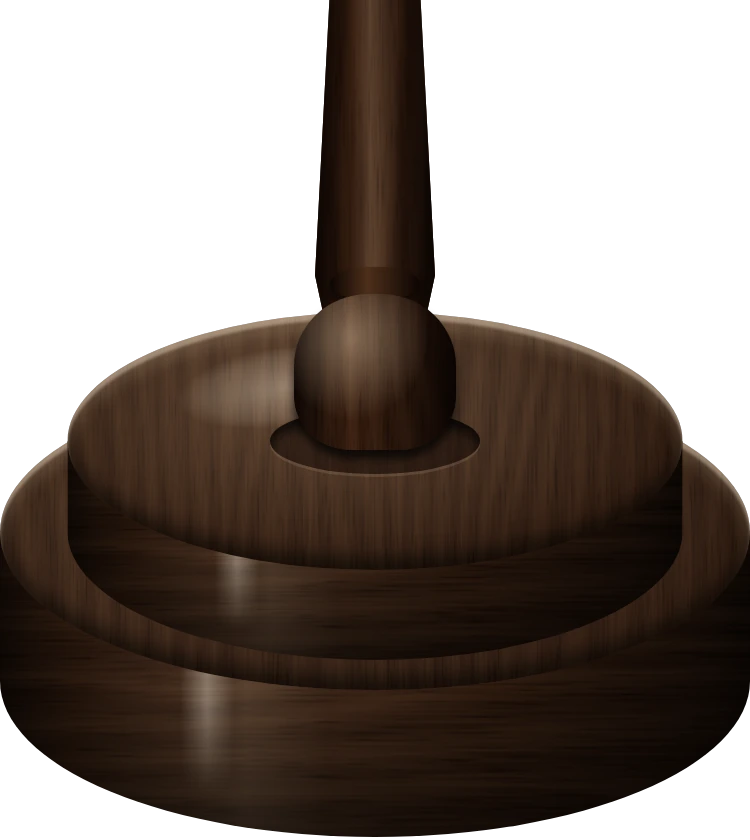
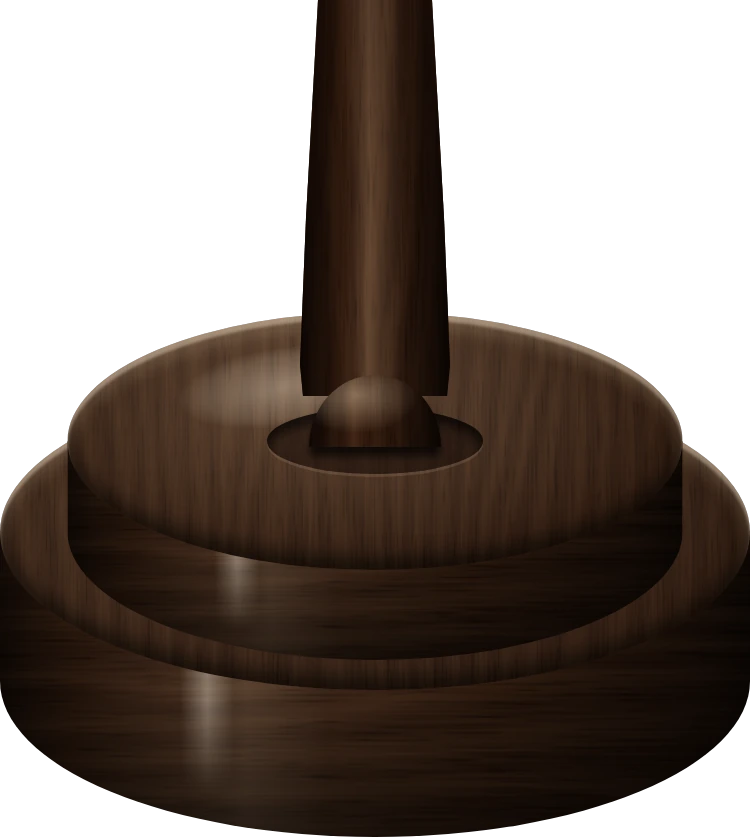
Half-dome knob, thicker pole

Changed region(s): [[0.368, 0.0, 0.6133, 0.5571], [0.6133, 0.4952, 0.644, 0.5262], [0.4907, 0.3095, 0.5213, 0.3405]]

diff --git a/index.html b/index.html
@@ -333,8 +333,8 @@ footer{border-top:1px solid var(--line);color:var(--muted);font-size:.85rem;padd
   Family Recipes · some our own, others we've found.
 </div></footer>
 
-<script src="recipes.js?v=20261124"></script>
-<script src="cards.js?v=20261124"></script>
+<script src="recipes.js?v=20261125"></script>
+<script src="cards.js?v=20261125"></script>
 <script>
 (function(){
 const R = window.RECIPES || [];
@@ -486,7 +486,7 @@ function sectionPage(k){
             <div class="rings"><i></i><i></i></div>
             <div class="stand-cover"><div class="idx-edge"><i></i><i></i><i></i><i></i><i></i><i></i></div></div>
           </div></div>
-          <img class="stand-foot" src="pedestal.webp?v=4" width="250" height="280" alt="">
+          <img class="stand-foot" src="pedestal.webp?v=5" width="250" height="280" alt="">
         </div>
         <div class="stand-text"><h1>${s.name}</h1><p class="tagline">${s.tagline}</p><p>${s.blurb}</p></div>
       </div>` : `<div class="shelf-art" aria-hidden="true">${SPINES}</div>
@@ -593,7 +593,7 @@ function recipe(slug){
     <div class="r-body">
       <section class="panel ing"><h2>Ingredients</h2>${scaleBarHtml(r)}<div id="ingList">${ingHtml}</div></section>
       <section>
-        ${r.cardImg ? `<div class="panel origcard"><h2>The original card</h2><button type="button" class="photo-btn" data-zoom="${esc(r.cardImg)}?v=20261124" data-cap="The original recipe card for ${esc(r.title)}"><img src="${esc(r.cardImg)}?v=20261124" alt="The handwritten recipe card for ${esc(r.title)}" loading="lazy"></button><p class="hint">Tap to zoom in on the handwriting.</p></div>` : ''}
+        ${r.cardImg ? `<div class="panel origcard"><h2>The original card</h2><button type="button" class="photo-btn" data-zoom="${esc(r.cardImg)}?v=20261125" data-cap="The original recipe card for ${esc(r.title)}"><img src="${esc(r.cardImg)}?v=20261125" alt="The handwritten recipe card for ${esc(r.title)}" loading="lazy"></button><p class="hint">Tap to zoom in on the handwriting.</p></div>` : ''}
         <div class="panel">
           <h2>Instructions</h2>
           ${r.steps.length ? `<p class="hint">Tap a step to mark it done.</p><ol class="steps">${r.steps.map((s,i)=>`<li data-k="s${i}" class="${checks['s'+i]?'done':''}">${md(s)}</li>`).join('')}</ol>` : '<p class="muted">No instructions on the card.</p>'}
